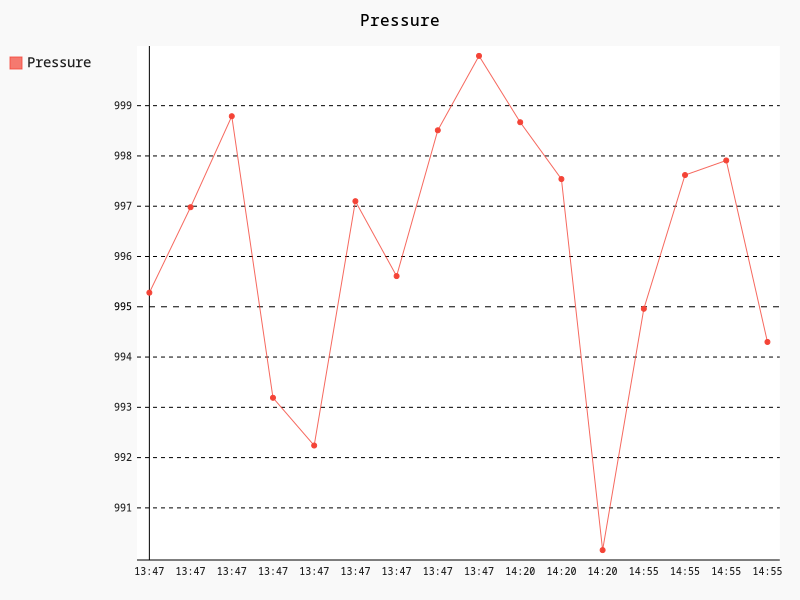
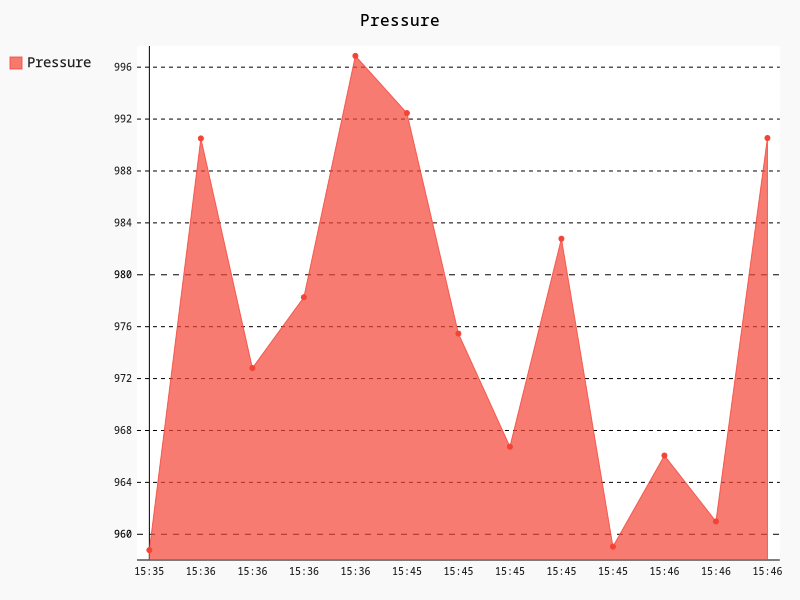
fixed chards for large database

diff --git a/app.py b/app.py
@@ -141,11 +141,24 @@ def delete_measurement(measure_id):
 @app.route("/charts", methods=['POST', 'GET'])
 def chart():
     # TEMPERATURE
-    chart  = pygal.Line()
+
+    chart  = pygal.Line(fill=True)
     chart.title = 'Temperature'
     db = get_db()
     rows = db.execute("SELECT temp FROM measurements").fetchall()
     dates = db.execute("SELECT created_at FROM measurements").fetchall()
+    if len(dates) > 15 and len(dates) <= 50:
+        dates = dates[::3]
+        rows = rows[::3]
+    elif len(dates) > 50 and len(dates) <= 100:
+        dates = dates[::5]
+        rows = rows[::5]
+    elif len(dates) > 100 and len(dates) <= 200:
+        dates = dates[::12]
+        rows = rows[::12]
+    elif len(dates) > 200:
+        dates =dates[-150::12]
+        rows = rows[-150::12]
     dates_hours = []
     for date in dates:
         date = date[0][11:16]
@@ -155,11 +168,24 @@ def chart():
     chart.add('Temperature', temps)
     chart.render_to_png('static/temp_plot.png')
     # HUM
-    chart2  = pygal.Line()
+
+    chart2 = pygal.Line(fill=True)
     chart2.title = 'Humidity'
     db = get_db()
     rows = db.execute("SELECT hum FROM measurements").fetchall()
     dates = db.execute("SELECT created_at FROM measurements").fetchall()
+    if len(dates) > 15 and len(dates) <= 50:
+        dates = dates[::3]
+        rows = rows[::3]
+    elif len(dates) > 50 and len(dates) <= 100:
+        dates = dates[::5]
+        rows = rows[::5]
+    elif len(dates) > 100 and len(dates) <= 200:
+        dates = dates[::12]
+        rows = rows[::12]
+    elif len(dates) > 200:
+        dates =dates[-150::12]
+        rows = rows[-150::12]
     dates_hours = []
     for date in dates:
         date = date[0][11:16]
@@ -169,11 +195,24 @@ def chart():
     chart2.add('Humidity', hums)
     chart2.render_to_png('static/hum_plot.png')
     # PRESSURE
-    chart3  = pygal.Line()
+    
+    chart3  = pygal.Line(fill=True)
     chart3.title = 'Pressure'
     db = get_db()
     rows = db.execute("SELECT press FROM measurements").fetchall()
     dates = db.execute("SELECT created_at FROM measurements").fetchall()
+    if len(dates) > 15 and len(dates) <= 50:
+        dates = dates[::3]
+        rows = rows[::3]
+    elif len(dates) > 50 and len(dates) <= 100:
+        dates = dates[::5]
+        rows = rows[::5]
+    elif len(dates) > 100 and len(dates) <= 200:
+        dates = dates[::12]
+        rows = rows[::12]
+    elif len(dates) > 200:
+        dates =dates[-150::12]
+        rows = rows[-150::12]
     dates_hours = []
     for date in dates:
         date = date[0][11:16]
@@ -183,6 +222,7 @@ def chart():
     chart3.add('Pressure', presses)
     chart3.render_to_png('static/press_plot.png')
     # RENDER TEMPLATE
+
     return render_template('temp_plot.html')
 
 

diff --git a/weather_station_sim.py b/weather_station_sim.py
@@ -8,4 +8,4 @@ if __name__ == "__main__":
              json ={'temp': round(SystemRandom().uniform(25.5, 30), 2),
                     'hum': round(SystemRandom().uniform(30.1, 40), 2),
                     'press': round(SystemRandom().uniform(950.1, 1000), 2)})
-        sleep(10)
+        sleep(1)
